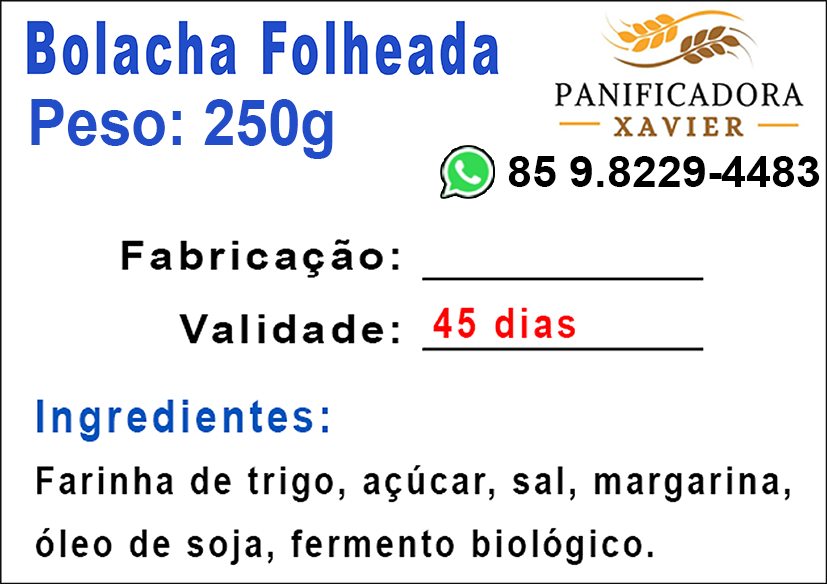
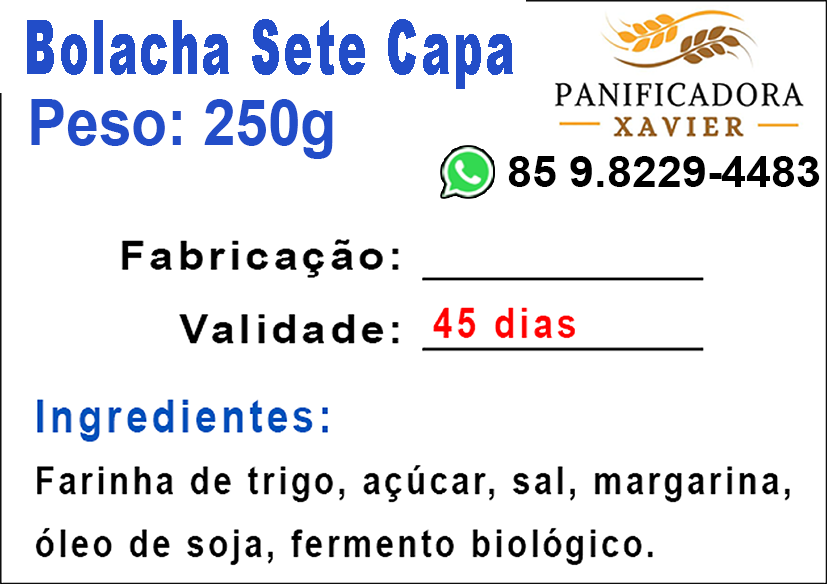
alteração no nome do produto

Changed region(s): [[0.0, 0.0, 0.6348, 0.1541]]

diff --git a/index.html b/index.html
@@ -47,7 +47,7 @@
                                             <option value="" disabled selected> Qual o produto? </option>
                                             <option value="acebolada">Bolacha Acebolada 180g</option>
                                             <option value="amanteigada">Bolacha Amanteigada 180g</option>
-                                            <option value="folheada">Bolacha Folheada 250g</option>
+                                            <option value="folheada">Bolacha Sete Capa 250g</option>
                                             <option value="mole">Bolacha Mole 200g</option>
                                             <option value="pastel">Bolacha Pastel 220g</option>
                                             <option value="seca">Bolacha Seca 180g</option>
